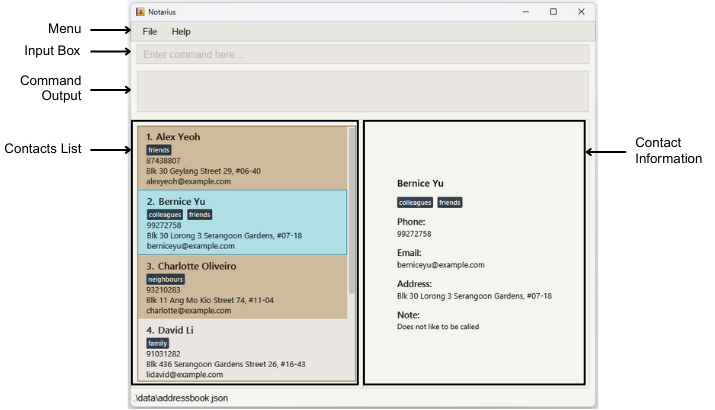
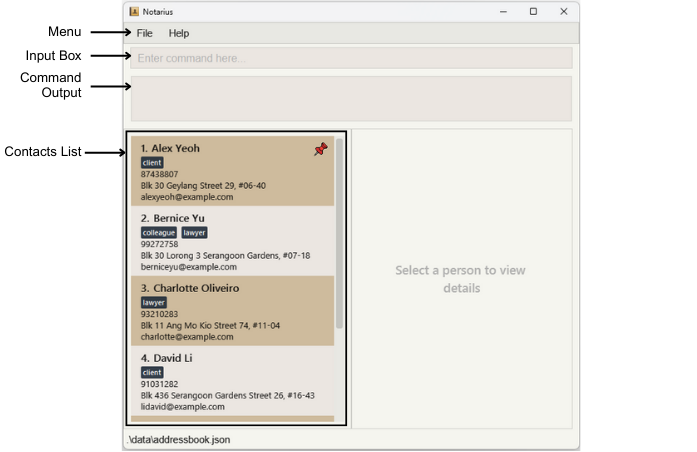
Update GUI documentation

Changed region(s): [[0.0, 0.0, 0.9943, 0.9951], [0.5423, 0.439, 0.7834, 0.7317], [0.5423, 0.761, 0.6628, 0.8195]]

diff --git a/docs/UserGuide.md b/docs/UserGuide.md
@@ -125,7 +125,7 @@ A GUI similar to the below should appear in a few seconds. Note how the app cont
 
 ![Ui](images/Ui.png)
 
-1. Type the command in the command box and press Enter to execute it. e.g. typing **`help`** and pressing Enter will open the help window.<br>
+1. Type the command in the input box and press Enter to execute it. e.g. typing **`help`** and pressing Enter will open the help window.<br>
    Some example commands you can try:
 
     * `list` : Lists all contacts.
@@ -144,19 +144,29 @@ A GUI similar to the below should appear in a few seconds. Note how the app cont
 
 ## Navigating the GUI
 
-### Basic Orientation
+1. At the main window, you can type the commands in the input box. The results of your commands will show up in the command output.
+2. In the contacts list, it will show all the contacts stored in Notarius.
+
 <p align="center">
   <img src="images/userinterface1.png" alt="Ui" />
 </p>
 
-### Contact Card
+2. When a contact is selected, you can view more details at the contact information card.
+
 <p align="center">
   <img src="images/userinterface2.png" alt="Ui" />
 </p>
 
-### Contact Details
+3. At the contact list, you can view the name, phone number, address, email and tags of the person. When a person is pinned, the pin icon will show up.
+
 <p align="center">
   <img src="images/userinterface3.png" alt="Ui" />
+</p>
+
+4. In addition, at the contact information card, you can view the person's note.
+
+<p align="center">
+  <img src="images/userinterface4.png" alt="Ui" />
 </p>
 
 --------------------------------------------------------------------------------------------------------------------
